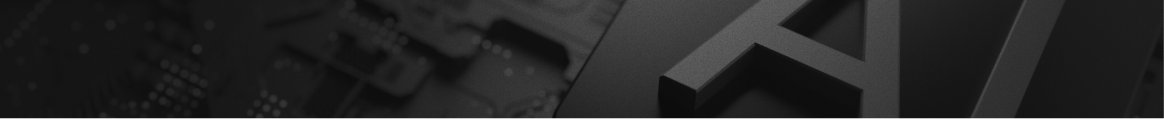
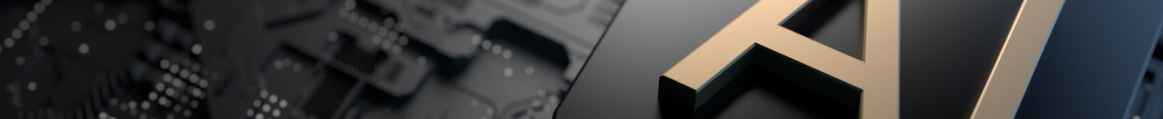
feat: img add

diff --git a/components/Icons/NeuralNetworks.vue b/components/Icons/NeuralNetworks.vue
@@ -1,0 +1,5 @@
+<template>
+    <svg xmlns="http://www.w3.org/2000/svg" width="49" height="50" fill="none" viewBox="0 0 49 50">
+  <path fill="#D5E39E" d="M35.453 42.359a1.674 1.674 0 0 0-1.25 0c-.193.081-.37.195-.513.342l-.012.008c-.083.081-.16.175-.222.277-.033.053-.066.11-.095.17h-2.593v-2.23a5.642 5.642 0 0 1-1.454.448v2.499a.727.727 0 0 0 .727.72h3.345a1.58 1.58 0 0 0 .284.386l.012.013a1.632 1.632 0 0 0 1.154.471c.214 0 .424-.04.613-.118l.012-.004a1.602 1.602 0 0 0 1.007-1.493 1.602 1.602 0 0 0-.477-1.143 1.817 1.817 0 0 0-.538-.346Zm-9.907-31.247a4.721 4.721 0 0 0-1.212 1.297.188.188 0 0 1-.07.07.243.243 0 0 1-.329-.07 4.721 4.721 0 0 0-1.212-1.297 3.902 3.902 0 0 0-1.52-.664h-.009a4.178 4.178 0 0 0-1.557-.016 4.723 4.723 0 0 0-1.529.557 4.92 4.92 0 0 0-1.232 1.014 4.253 4.253 0 0 0-.863 1.538c-.02.073-.045.154-.062.236a.233.233 0 0 1-.226.187 4.52 4.52 0 0 0-1.606.577c-.518.306-.999.72-1.414 1.217a6.122 6.122 0 0 0-1.002 1.733c-.23.61-.37 1.282-.4 1.994-.003.093-.003.183-.003.277 0 .085.004.174.004.268a.237.237 0 0 1-.099.208c-.337.24-.64.488-.912.744a6.66 6.66 0 0 0-.727.818 5.33 5.33 0 0 0-.76 1.424 4.86 4.86 0 0 0-.272 1.53c-.004.488.062.972.202 1.44.14.476.353.94.628 1.371a6.344 6.344 0 0 0 1.167 1.38.24.24 0 0 1 .074.22 5.489 5.489 0 0 0-.11.915c-.009.309.008.614.049.911.078.545.238 1.066.464 1.546.238.513.55.98.912 1.392.35.402.748.752 1.175 1.041.432.293.888.521 1.356.68.21.069.424.126.641.167.206.04.411.065.613.073a.237.237 0 0 1 .238.187c.107.484.304.94.575 1.35.284.432.641.815 1.052 1.132a4.82 4.82 0 0 0 1.767.858c.604.15 1.24.18 1.866.05a3.997 3.997 0 0 0 1.602-.725c.46-.346.888-.81 1.245-1.412a.213.213 0 0 1 .095-.085.239.239 0 0 1 .32.097c.296.546.657.98 1.06 1.31.436.354.917.594 1.422.733a4.25 4.25 0 0 0 1.972.04 5.149 5.149 0 0 0 1.952-.858 4.98 4.98 0 0 0 1.18-1.164 4.2 4.2 0 0 0 .66-1.379.234.234 0 0 1 .194-.191 4.521 4.521 0 0 0 1.746-.724 5.648 5.648 0 0 0 1.45-1.44 6.184 6.184 0 0 0 .868-1.832c.18-.63.267-1.314.238-2.034a.226.226 0 0 1 .103-.212c.353-.24.665-.492.945-.748.283-.269.534-.545.748-.834.328-.44.57-.895.74-1.363.172-.484.262-.977.279-1.469a4.977 4.977 0 0 0-.169-1.412 5.368 5.368 0 0 0-.567-1.347l-.008-.008a6.298 6.298 0 0 0-.571-.81 6.726 6.726 0 0 0-.715-.736.237.237 0 0 1-.078-.224 5.377 5.377 0 0 0 .082-1.668 5.39 5.39 0 0 0-.436-1.603 5.91 5.91 0 0 0-.912-1.444 6.217 6.217 0 0 0-1.195-1.078 5.514 5.514 0 0 0-1.373-.696l-.012-.004a4.668 4.668 0 0 0-.756-.187h-.008a4.11 4.11 0 0 0-.736-.053.238.238 0 0 1-.246-.18 3.986 3.986 0 0 0-.383-.968 4.455 4.455 0 0 0-.854-1.102c-.35-.33-.748-.61-1.175-.826-.44-.22-.92-.374-1.414-.444a4.18 4.18 0 0 0-1.422.041 4.315 4.315 0 0 0-1.528.684Zm6.718 4.58a.244.244 0 0 1 .214-.166 2.29 2.29 0 0 1 .526.024c.18.029.361.074.542.135.341.114.682.289.998.508.313.216.609.48.863.781l.005.009c.267.313.493.663.661 1.045.16.358.267.74.312 1.144a3.774 3.774 0 0 1-.189 1.643l-.004.017a.794.794 0 0 0 .316.915l.013.008a5.179 5.179 0 0 1 1.356 1.481c.18.305.32.623.407.948.09.322.131.647.119.969a3.152 3.152 0 0 1-.193.996 3.724 3.724 0 0 1-.506.924l-.004.004a4.871 4.871 0 0 1-.756.797c-.288.245-.62.477-1.002.7l-.013.008a.801.801 0 0 0-.382.846l.004.033a4.968 4.968 0 0 1-.086 1.758 4.563 4.563 0 0 1-.699 1.57 4.146 4.146 0 0 1-.821.88 3.136 3.136 0 0 1-.983.532h-.004a.24.24 0 0 1-.295-.154c-.465-1.502-1.266-1.986-2.622-2.677l-.029-.017a.798.798 0 0 0-.58-.04.734.734 0 0 0-.439.366l-.012.024a.776.776 0 0 0-.041.574.778.778 0 0 0 .382.443c1.134.574 1.972 1.01 1.96 2.417-.004.42-.136.826-.358 1.192a3.526 3.526 0 0 1-.961 1.013 3.61 3.61 0 0 1-1.307.594c-.44.102-.891.106-1.315-.008-.715-.195-1.179-.667-1.491-1.24-.296-.546-.46-1.18-.58-1.758-.008-.02-.008-.045-.008-.066 0-.292-.23-.484-.53-.57a1.549 1.549 0 0 0-.83 0c-.296.09-.526.282-.526.57 0 .02-.004.037-.008.058-.23.903-.563 1.582-.953 2.07-.456.574-.99.887-1.541 1.001a2.709 2.709 0 0 1-1.212-.04 3.36 3.36 0 0 1-1.155-.57 3.07 3.07 0 0 1-.822-.948 2.34 2.34 0 0 1-.3-1.119c0-1.48.904-1.977 2.1-2.584a.777.777 0 0 0 .382-.443.77.77 0 0 0-.045-.586.782.782 0 0 0-.448-.378.798.798 0 0 0-.58.04l-.012.005c-1.41.711-2.251 1.232-2.757 2.783a.243.243 0 0 1-.238.174 2.79 2.79 0 0 1-.834-.163 4.156 4.156 0 0 1-.978-.492 4.504 4.504 0 0 1-.85-.756 4.297 4.297 0 0 1-.662-1.01 3.908 3.908 0 0 1-.337-1.102v-.008a3.806 3.806 0 0 1 .177-1.762l.003-.012a.79.79 0 0 0 .005-.496l-.005-.009a.795.795 0 0 0-.308-.407l-.008-.008a5.042 5.042 0 0 1-1.27-1.355 3.982 3.982 0 0 1-.435-.964 3.423 3.423 0 0 1-.14-1c.004-.347.066-.7.19-1.046.118-.33.29-.66.53-.98a4.95 4.95 0 0 1 .743-.798 6.86 6.86 0 0 1 .974-.708.79.79 0 0 0 .3-.326l.004-.012a.755.755 0 0 0 .07-.435c-.004-.017-.004-.033-.004-.05v-.007a5.087 5.087 0 0 1-.046-.871 4.803 4.803 0 0 1 .292-1.485 4.54 4.54 0 0 1 .74-1.29c.25-.305.538-.561.838-.76.3-.2.616-.342.941-.424a.24.24 0 0 1 .296.155c.255.797.575 1.298 1.187 1.863l.025.02c.152.139.35.204.542.196a.75.75 0 0 0 .522-.236l.013-.016a.742.742 0 0 0 .197-.537.77.77 0 0 0-.247-.53c-.493-.451-.604-.732-.752-1.187a2.235 2.235 0 0 1 .025-1.494c.115-.313.296-.606.526-.862.226-.256.501-.484.805-.66l.013-.008a3.21 3.21 0 0 1 .998-.374 2.62 2.62 0 0 1 1.007.004c.468.098.928.342 1.335.765.358.37.674.883.925 1.559l.004.008c.086.264.366.419.694.48.148.028.304.036.456.028h.005a1.72 1.72 0 0 0 .443-.081c.247-.082.44-.212.485-.378v-.094c0-.472.284-.973.674-1.383.427-.448.998-.802 1.48-.9.303-.06.611-.065.912-.02.312.049.616.146.903.289l.025.008c.292.146.559.334.793.553.23.22.428.468.575.74.235.428.341.916.268 1.433-.066.452-.083.736-.465 1.188l-.004.004a.75.75 0 0 0 .078 1.054l.025.02c.16.13.357.183.55.167a.757.757 0 0 0 .506-.252l.02-.029c.395-.463.522-.805.703-1.391Zm9.023 19.913a1.628 1.628 0 0 1 0-1.237c.083-.191.198-.366.346-.509l.008-.012a1.635 1.635 0 0 1 .452-.313v-2.567h-3.189a6.864 6.864 0 0 0-.004-.505.257.257 0 0 1 .115-.24c.329-.224.629-.456.9-.696h2.9a.727.727 0 0 1 .728.72v3.313a1.597 1.597 0 0 1 .39.28l.013.012a1.604 1.604 0 0 1 .357 1.75l-.004.012a1.62 1.62 0 0 1-.884.875 1.673 1.673 0 0 1-1.248 0 1.622 1.622 0 0 1-.53-.35 1.793 1.793 0 0 1-.35-.533Zm4.619-8.24H41.57a5.33 5.33 0 0 0 .197-.48 5.07 5.07 0 0 0 .247-.96h3.89c.03-.052.058-.105.091-.158a1.598 1.598 0 0 1 .744-.614 1.64 1.64 0 0 1 1.237-.004l.012.004a1.603 1.603 0 0 1 .883 2.112 1.602 1.602 0 0 1-.883.874 1.638 1.638 0 0 1-1.237.004l-.012-.004a1.596 1.596 0 0 1-.74-.606l-.008-.013c-.029-.048-.057-.101-.086-.154Zm1.38-3.938h-5.452a6.304 6.304 0 0 0-.584-1.322l-.008-.012c-.02-.037-.04-.07-.061-.106h5.382v-4.7c-.04-.024-.082-.048-.123-.076a1.604 1.604 0 0 1-.58-1.949 1.62 1.62 0 0 1 .883-.875 1.673 1.673 0 0 1 1.25 0 1.623 1.623 0 0 1 .884.875 1.595 1.595 0 0 1 .004 1.225l-.004.011a1.648 1.648 0 0 1-.662.765 1.81 1.81 0 0 1-.197.102v5.338a.71.71 0 0 1-.214.509.73.73 0 0 1-.518.215Zm-5.699-3.474H39.73a5.98 5.98 0 0 0 .086-1.44h1.044v-2.124a1.303 1.303 0 0 1-.164-.094 1.604 1.604 0 0 1-.288-2.49l.012-.012a1.622 1.622 0 0 1 1.155-.472 1.634 1.634 0 0 1 1.142.464l.013.008c.148.146.267.317.349.513l.004.012a1.628 1.628 0 0 1 0 1.237 1.676 1.676 0 0 1-.341.512l-.012.012a1.697 1.697 0 0 1-.263.212c-.05.032-.099.061-.152.085v2.857a.71.71 0 0 1-.214.508.735.735 0 0 1-.514.212ZM12.791 7.637a1.673 1.673 0 0 0 1.25 0c.193-.081.37-.195.513-.342l.012-.008a1.69 1.69 0 0 0 .316-.448h2.594v2.218c.456-.24.949-.415 1.454-.517V6.12a.727.727 0 0 0-.727-.72h-3.345a1.58 1.58 0 0 0-.284-.387L14.563 5a1.62 1.62 0 0 0-.53-.35 1.674 1.674 0 0 0-.624-.122c-.214 0-.423.041-.612.118l-.013.005a1.604 1.604 0 0 0-.883 2.112c.082.199.205.378.353.524.16.146.337.269.538.35Zm8.325-4.573v5.558c.485.138.958.358 1.401.675l.05.037c0-.013.004-.025.004-.037V3.064c.053-.029.107-.057.16-.09.099-.06.19-.134.267-.211a1.66 1.66 0 0 0 .354-.525 1.595 1.595 0 0 0 .004-1.225l-.005-.012a1.622 1.622 0 0 0-1.508-.997c-.217 0-.427.045-.624.122a1.62 1.62 0 0 0-.884.875 1.595 1.595 0 0 0-.004 1.225l.005.012a1.598 1.598 0 0 0 .612.732l.008.004c.053.033.103.061.16.09Zm3.974-1.367v8.129c.197-.2.406-.374.62-.53.267-.19.547-.349.834-.471V2.413h4.746c.025.04.05.081.078.122a1.622 1.622 0 0 0 .72.574 1.673 1.673 0 0 0 1.248 0 1.62 1.62 0 0 0 .884-.875 1.63 1.63 0 0 0 .123-.619 1.604 1.604 0 0 0-.477-1.143A1.668 1.668 0 0 0 32.708 0c-.213 0-.418.04-.611.118l-.013.004a1.666 1.666 0 0 0-.53.35c-.09.09-.172.195-.242.305-.037.061-.074.13-.103.195h-5.391a.727.727 0 0 0-.727.725Zm3.509 5.643v1.115a4.993 4.993 0 0 1 1.455.297v-.688h2.144c.029.057.058.11.095.163a1.623 1.623 0 0 0 1.372.745c.218 0 .428-.045.625-.123a1.68 1.68 0 0 0 .517-.337l.013-.013a1.604 1.604 0 0 0 .008-2.274l-.008-.012a1.6 1.6 0 0 0-.518-.346l-.012-.004a1.673 1.673 0 0 0-1.25 0c-.193.081-.37.195-.517.338l-.013.012a1.69 1.69 0 0 0-.213.26 1.09 1.09 0 0 0-.086.15h-2.885a.727.727 0 0 0-.727.717ZM7.713 14.322a1.629 1.629 0 0 1 0 1.237 1.554 1.554 0 0 1-.346.508l-.008.012a1.471 1.471 0 0 1-.28.22c-.053.033-.11.065-.172.094v2.567H9.6v.126c0 .098.004.2.008.305a.264.264 0 0 1-.111.236 9.36 9.36 0 0 0-.957.773H6.19a.727.727 0 0 1-.728-.72v-3.312a1.592 1.592 0 0 1-.39-.28l-.013-.013a1.603 1.603 0 0 1-.357-1.75l.004-.011a1.621 1.621 0 0 1 .883-.875 1.674 1.674 0 0 1 1.25 0c.2.081.382.203.53.35.14.154.262.333.345.533ZM3.094 22.56h3.863a5.395 5.395 0 0 0-.423 1.436h-3.44c-.029.053-.057.106-.09.159a1.6 1.6 0 0 1-.744.614 1.639 1.639 0 0 1-1.237.004l-.012-.004a1.604 1.604 0 0 1-.883-2.112 1.603 1.603 0 0 1 .883-.874 1.639 1.639 0 0 1 1.237-.004l.012.004a1.594 1.594 0 0 1 .74.606l.008.012.086.159Zm-1.38 3.938h5.025c.156.493.382.969.67 1.42v.004l.008.017h-4.98v4.699c.04.024.082.049.123.077a1.603 1.603 0 0 1 .703 1.33c0 .216-.046.428-.124.62a1.62 1.62 0 0 1-.883.875 1.674 1.674 0 0 1-.625.121c-.218 0-.427-.045-.624-.122a1.62 1.62 0 0 1-.53-.35A1.629 1.629 0 0 1 0 34.039c0-.212.041-.415.12-.607l.003-.012a1.647 1.647 0 0 1 .86-.867v-5.338a.71.71 0 0 1 .213-.508.76.76 0 0 1 .517-.208Zm5.699 3.475h1.356c-.046.268-.07.533-.078.793a5.34 5.34 0 0 0 .012.647H8.14v2.124c.057.029.11.057.164.094a1.603 1.603 0 0 1 .752 1.363c0 .22-.045.423-.123.618a1.675 1.675 0 0 1-.341.513l-.012.012a1.62 1.62 0 0 1-.53.35 1.674 1.674 0 0 1-1.25 0 1.634 1.634 0 0 1-.517-.342l-.013-.008a1.583 1.583 0 0 1-.349-.513l-.004-.012a1.629 1.629 0 0 1 0-1.237c.082-.191.197-.366.341-.512l.012-.013a1.7 1.7 0 0 1 .263-.211c.05-.033.099-.061.152-.086v-2.856c0-.2.083-.378.214-.508a.698.698 0 0 1 .514-.216Zm19.719 16.958V41.24a4.253 4.253 0 0 1-1.442-.777l-.009-.008v6.481c-.053.029-.107.057-.16.09a1.522 1.522 0 0 0-.267.211 1.64 1.64 0 0 0-.353.525 1.594 1.594 0 0 0-.004 1.225l.004.012a1.622 1.622 0 0 0 .883.875 1.673 1.673 0 0 0 1.25 0 1.624 1.624 0 0 0 .883-.875 1.597 1.597 0 0 0 .004-1.225l-.004-.012a1.601 1.601 0 0 0-.612-.732l-.013-.008c-.053-.033-.107-.061-.16-.09ZM23.154 48.3v-8.202a4.88 4.88 0 0 1-.542.472 4.5 4.5 0 0 1-.912.533v6.485h-4.746c-.025-.04-.05-.081-.078-.122a1.652 1.652 0 0 0-.72-.574 1.673 1.673 0 0 0-1.248 0 1.602 1.602 0 0 0-1.007 1.493 1.602 1.602 0 0 0 1.007 1.493 1.639 1.639 0 0 0 1.237.004l.012-.003a1.654 1.654 0 0 0 .772-.655c.037-.061.074-.13.103-.195h5.39a.733.733 0 0 0 .731-.728Zm-3.509-5.643v-1.184a5.036 5.036 0 0 1-1.454-.293v.76h-2.145a1.298 1.298 0 0 0-.095-.162 1.62 1.62 0 0 0-.752-.623 1.668 1.668 0 0 0-.62-.121c-.218 0-.428.044-.625.122-.193.081-.37.195-.518.337l-.012.009a1.604 1.604 0 0 0-.008 2.274l.008.012c.148.147.32.265.518.346l.012.004c.193.077.403.122.625.122.218 0 .427-.045.624-.122a1.67 1.67 0 0 0 .518-.338l.012-.012c.079-.077.148-.163.214-.26.033-.05.062-.098.086-.15h2.885a.727.727 0 0 0 .727-.721Z"/>
+</svg>
+</template>

diff --git a/components/Sections/EducationProgram.vue b/components/Sections/EducationProgram.vue
@@ -3,10 +3,12 @@
         <div class="container">
             <h2 class="leading-tight">Программа обучения — <span class="block">6 месяцев</span></h2>
             <p class="mt-7 text-2xl">15 часов теории и 110 часов практики</p>
-            <ul class="mt-16 space-y-8">
-                <li v-for="a of data" :key="a.id" @click="clickHandleModule(a.id)">
-                    <SectionsEducationItem v-bind="a" :open="selectedModuleId === a.id" />
-                </li>
+            <ul class="mt-16 ">
+                <TransitionGroup name="tabs">
+                    <li v-for="a of data" :key="a.id" @click="clickHandleModule(a.id)">
+                        <SectionsEducationItem v-bind="a" :open="selectedModuleId === a.id" />
+                    </li>
+                </TransitionGroup>
             </ul>
         </div>
     </section>
@@ -20,33 +22,126 @@ import bgBtnModule4 from '@/assets/img/module4.png';
 import bgBtnModule5 from '@/assets/img/module5.png';
 import bgBtnModule6 from '@/assets/img/module6.png';
 import bgBtnModule7 from '@/assets/img/module7.png';
+
+import bgDetailModule1 from '@/assets/img/module1-full.png';
+import bgDetailModule2 from '@/assets/img/module2-full.png';
+import bgDetailModule3 from '@/assets/img/module3-full.png';
+import bgDetailModule4 from '@/assets/img/module4-full.png';
+import bgDetailModule5 from '@/assets/img/module5-full.png';
+import bgDetailModule6 from '@/assets/img/module6-full.png';
+import bgDetailModule7 from '@/assets/img/module7-full.png';
+
 const data = [
     {
         id: 1,
         bgBtn: bgBtnModule1,
+        bgDetails: bgDetailModule1,
         title: 'Модуль 1: Введение в ML/AI',
+        details: [
+            'Введение и история ML/AI',
+            'Типы машинного обучения',
+            'Supervised Learning vs Unsupervised Learning',
+            'Reinforcement Learning',
+            'Методология CRISP-DM',
+            'Процесс выбора модели',
+            'Введение в среду Python для машинного обучения (знакомство с основными библиотеками NumPy, Pandas и т.д.)'
+        ]
     },
-    {id: 2, bgBtn: bgBtnModule2, title: 'Модуль 2: Алгоритмы машинного обучения'},
-    {id: 3, bgBtn: bgBtnModule3, title: 'Модуль 3: ENeural Networks and Deep Learning'},
+    {
+        id: 2, 
+        bgBtn: bgBtnModule2,
+        bgDetails: bgDetailModule2,
+        title: 'Модуль 2: Алгоритмы машинного обучения',
+        details: [
+            'Модели Регрессии (Regression)',
+            'Модели Классификации (Classification)',
+            'Модели кластеризации',
+            'Деревья решений и ансамблевое обучение',
+            'Развертывание моделей машинного обучения'
+        ]
+    },
+    {
+        id: 3, 
+        bgBtn: bgBtnModule3,
+        bgDetails: bgDetailModule3,
+        title: 'Модуль 3: Neural Networks and Deep Learning',
+        details: [
+            'Введение в нейронные сети',
+            'Введение в фреймворки (PyTorch/TensorFlow)',
+            'Convolutional Neural Networks (CNN)',
+            'Recurrent Neural Networks (RNN)',
+            'Transfer learning',
+            'Regularization and dropout',
+            'Hyperparameter tuning',
+            'Методы увеличения данных',
+            'Обучение крупных моделей'
+        ],
+        project: {
+            title: 'Среднесрочный проект',
+            desc: 'студенты применят все, что узнали до этого, на практике'
+        }
+    },
     {
         id: 4,
         bgBtn: bgBtnModule4,
+        bgDetails: bgDetailModule4,
         title: 'Модуль 4: Обработка естественного языка (NLP)',
+        details: [
+            'Токенизация и предварительная обработка текста',
+            'Семантические эмбеддинги слов (Word2Vec и GloVe)',
+            'Языковое моделирование. Обучение собственных эмбеддингов',
+            'Recurrent Neural Networks (RNN)',
+            'Generative Recurrent Networks',
+            'Трансформеры',
+            'Распознавание именованных сущностей (NER)',
+            'Большие языковые модели (LLM)'
+        ],
     },
     {
         id: 5,
         bgBtn: bgBtnModule5,
+        bgDetails: bgDetailModule5,
         title: 'Модуль 5: Компьютерное зрение (Computer Vision)',
+        details: [
+          'Введение в Computer Vision (OpenCV)',
+          'Обработка изображений',
+          'Обнаружение и распознавание объектов (фото и видео)',
+          'Распознавание лица',
+          'Сегментация изображения',
+          'Generative Adversarial Networks (GANs) - передача художественного стиля'
+        ],
     },
     {
         id: 6,
         bgBtn: bgBtnModule6,
+        bgDetails: bgDetailModule6,
         title: 'Модуль 6: Технологии корпоративной разработки',
+        details: [
+          'Источники данных и виды баз данных (PostgreSQL, Clickhouse, Elasticsearch, Milvus)',
+          'Облачные вычисления (AWS, Google Cloud, Nvidia Cloud Computing)',
+          'Развертывание модели (Serverless, AWS Labda, TensorFlow Lite)',
+          'Docker',
+          'Развертывание модели в виде REST API'
+        ],
     },
     {
         id: 7,
         bgBtn: bgBtnModule7,
+        bgDetails: bgDetailModule7,
         title: 'Модуль 7: Kubernetes и обслуживание TensorFlow',
+        details: [
+          'Введение',
+          'Обслуживание TensorFlow',
+          'Создание службы предварительной обработки',
+          'Запуск всего локально с помощью Docker-compose',
+          'Введение в Kubernetes',
+          'Развертывание простого сервиса в Kubernetes',
+          'Развертывание моделей TensorFlow в Kubernetes',
+          'Развертывание в EKS'
+        ],
+        project: {
+            title: 'Финальный проект',
+        }
     },
 ];
 const selectedModuleId = ref<number | boolean>(false);
@@ -59,4 +154,13 @@ const clickHandleModule = (id: number) => {
 }
 </script>
 
-<style scoped></style>
+<style scoped lang="scss">
+.tabs-move {
+  transition: transform 0.3s ease, opacity 0.5s ease 0.3s;
+ 
+}
+
+.tabs-leave-active {
+  position: absolute;
+}
+</style>

diff --git a/components/Sections/EducationItem.vue b/components/Sections/EducationItem.vue
@@ -3,32 +3,35 @@ import bgImg from '@/assets/img/module1.png'
 import { PropType } from 'vue';
 defineProps({
     bgBtn: String as PropType<any>,
+    bgDetails: String as PropType<any>,
     title: String,
     id: Number,
-    open: Boolean
+    open: Boolean,
+    details: Array as PropType<string[]>,
+    project: Object as PropType<{desc: string, title: string}>
 })
 </script>
 
 <template>
-   <button class="p-11 w-full text-left group bg-center  flex justify-between bg-[length:100%_auto] bg-no-repeat" :style="{backgroundImage: `url(${bgBtn})`}"><span class="text-2xl leading-none font-semibold">{{ title }}</span>
-    <div class="inline-flex items-center flex-shrink-0 justify-center overflow-hidden">
+   <button :class="['p-11 w-full text-left group  flex justify-between relative isolate', open ? '' : 'mb-8']" ><span class="text-2xl leading-none font-semibold relative z-30">{{ title }}</span>
+    <div class="inline-flex items-center flex-shrink-0 justify-center overflow-hidden relative z-30">
         <span class="uppercase translate-x-full opacity-0 transition-all group-hover:opacity-100 group-hover:translate-x-0 duration-500 text-xs mr-5 text-[#E5F3AA] underline decoration-dashed decoration-[#E5F3AA]/50	">{{open ? 'Скрыть подробности':'Посмотреть подробнее'}}</span>
         <div :class="['w-7 h-7 bg-[#E5F3AA]/80 ml-auto rounded-full inline-flex justify-center items-center flex-shrink-0 transition-transform', open && 'rotate-90']">
[1 lines of base64/hex data omitted]
         </div>
     </div>
+    <div :class="['bg-[length:100%_auto] bg-no-repeat absolute inset-0 bg-center z-10 transition-all group-hover:saturate-100', open ? 'saturate-100' : ' saturate-0']" :style="{backgroundImage: `url(${bgBtn})`}"></div>
+    <div :class="['absolute inset-0 z-[11] bg-[linear-gradient(90deg,rgba(21,21,21,.83)0%,rgba(21,21,21,.51)49%,rgba(21,21,21,.83)101%)] transition-opacity group-hover:opacity-50', open ? 'opacity-50' : 'opacity-100']"></div>
    </button>
-   <div v-show="open" class="px-12 pt-14">
-        <p class="text-2xl font-semibold uppercase">Содержание:</p>
-        <ul class="text-2xl mt-6">
-            <li>— Введение и история ML/AI</li>
-            <li>— Типы машинного обучения</li>
-            <li>— Supervised Learning vs Unsupervised Learning</li>
-            <li>— Reinforcement Learning</li>
-            <li>— Методология CRISP-DM</li>
-            <li>— Процесс выбора модели</li>
-            <li>— Введение в среду Python для машинного обучения (знакомство с основными библиотеками NumPy, Pandas итд)</li>
-        </ul>
+   <div v-show="open" class="px-12 py-14 bg-center bg-cover bg-no-repeat relative" :style="{backgroundImage: `url(${bgDetails})`}" >
+        <div class="absolute inset-0 backdrop-blur-md bg-black/70"></div>
+        <div class="relative z-30">
+            <p class="text-2xl font-semibold uppercase">Содержание:</p>
+            <ul class="text-2xl leading-normal mt-6">
+                <li v-for="text of details"><span class="mr-1 font-extrabold">—</span> {{ text }}</li>
+            </ul>
+            <p class="mt-5 text-2xl italic" v-if="project"><span class="font-bold">{{ project.title }}</span> <span v-if="project.desc">- {{ project.desc }}</span></p>
+        </div>
    </div>
 </template>
 

diff --git a/components/Sections/AbilityAIIntegrator.vue b/components/Sections/AbilityAIIntegrator.vue
@@ -5,11 +5,11 @@
                 На что способен  <span class="block leading-none">ai - интегратор? </span>
             </h2>
             <ul class="flex gap-20 mt-16 flex-wrap">
-                <li v-for="([text]) in ability" :key="text" class="flex items-center flex-shrink-0">
+                <li v-for="a in ability" :key="text" class="flex items-center flex-shrink-0">
                     <div class="w-20 h-20 mr-5 flex-shrink-0 rounded-[5px] border-2 flex items-center justify-center bg-[rgba(21,21,21,0.51)] border-[#31302F]">
-                        <IconsBox />
+                        <component :is="a.icon" />
                     </div>
-                    <p class="text-2xl max-w-[380px] leading-tight">{{ text }}</p>
+                    <p class="text-2xl max-w-[400px] leading-tight">{{ a.title }}</p>
                 </li>
             </ul>
         </div>
@@ -17,10 +17,38 @@
 </template>
 
 <script setup lang="ts">
+import IconsNeuralNetworks from '@/components/Icons/NeuralNetworks.vue'
+import IconsBox from '@/components/Icons/Box.vue'
+import IconsFile from '@/components/Icons/File.vue'
+import IconsProgram from '@/components/Icons/Program.vue'
+import IconsCloudConnect from '@/components/Icons/CloudConnect.vue'
+
 const ability = [
-    ['Пишет и запускает смарт-контракты (программы) в сеть блокчейна'],
-    ['Работает над инновационными Web3.0 платформами и проектами'],
-    ['Пишет и запускает смарт-контракты (программы) в сеть блокчейна']
+    {
+        id: 0,
+        title: 'Разрабатывать и обучать искусственные нейронные сети',
+        icon: IconsNeuralNetworks
+    },
+    {
+        id: 1,
+        title: 'Обрабатывать и анализировать большие объемы данных',
+        icon: IconsBox
+    },
+    {
+        id: 2,
+        title: 'Создавать и оптимизировать AI-алгоритмы',
+        icon: IconsFile
+    },
+    {
+        id: 3,
+        title: 'Создавать приложения и продукты на базе AI',
+        icon: IconsProgram
+    },
+    {
+        id: 4,
+        title: 'Интегрировать и настраивать AI модели в бизнес-процессы и системы',
+        icon: IconsCloudConnect
+    },
 ]
 </script>
 

diff --git a/components/Icons/Program.vue b/components/Icons/Program.vue
@@ -1,0 +1,8 @@
+<template>
+    <svg xmlns="http://www.w3.org/2000/svg" width="48" height="44" fill="none" viewBox="0 0 48 44">
+  <g fill="#D5E39E">
+    <path d="M32.085 38.15a2.113 2.113 0 0 1-.833-.949H3.208V9.56h38.065v18.05a2.122 2.122 0 0 1 1.781 1.337 2.117 2.117 0 0 1 1.427-.217V2.673A2.676 2.676 0 0 0 41.808 0H2.673A2.676 2.676 0 0 0 0 2.673v35.063c0 1.474 1.2 2.673 2.673 2.673h29.169a2.115 2.115 0 0 1 .244-2.258Zm6.253-33.66c0-.545.442-.987.987-.987h.987c.545 0 .987.442.987.987v1.118a.987.987 0 0 1-.987.987h-.987a.987.987 0 0 1-.987-.987V4.49Zm-4.59 0c0-.545.443-.987.988-.987h.987c.545 0 .987.442.987.987v1.118a.987.987 0 0 1-.987.987h-.987a.987.987 0 0 1-.987-.987V4.49Zm-4.589 0c0-.545.442-.987.987-.987h.987c.545 0 .987.442.987.987v1.118a.987.987 0 0 1-.987.987h-.987a.987.987 0 0 1-.987-.987V4.49Z"/>
+    <path d="m47.621 36.269-.296-1.682a.417.417 0 0 0-.483-.338l-1.496.263a5.607 5.607 0 0 0-.68-1.177l.976-1.165a.416.416 0 0 0-.051-.586l-1.308-1.098a.417.417 0 0 0-.587.051l-.977 1.164a5.59 5.59 0 0 0-1.278-.466v-1.519a.417.417 0 0 0-.416-.416h-1.709a.417.417 0 0 0-.416.416v1.52c-.45.103-.877.26-1.278.465l-.977-1.164a.417.417 0 0 0-.587-.051l-1.308 1.098a.418.418 0 0 0-.051.587l.977 1.164a5.627 5.627 0 0 0-.681 1.177l-1.496-.263a.417.417 0 0 0-.483.338l-.296 1.682a.417.417 0 0 0 .337.482l1.497.264c.025.464.105.912.235 1.34l-1.315.759a.416.416 0 0 0-.153.569l.854 1.479a.415.415 0 0 0 .57.152l1.316-.76c.31.332.659.626 1.041.874l-.52 1.429a.417.417 0 0 0 .249.534l1.605.584a.416.416 0 0 0 .534-.25l.52-1.428a5.651 5.651 0 0 0 1.36 0l.519 1.429a.416.416 0 0 0 .534.249l1.605-.584a.416.416 0 0 0 .248-.534l-.52-1.428a5.643 5.643 0 0 0 1.042-.875l1.316.76a.417.417 0 0 0 .57-.152l.853-1.48a.417.417 0 0 0-.152-.568l-1.316-.76c.13-.426.21-.875.235-1.339l1.497-.264a.416.416 0 0 0 .269-.171.409.409 0 0 0 .071-.311Zm-7.45 2.672a2.291 2.291 0 1 1 0-4.582 2.291 2.291 0 0 1 0 4.582Z"/>
+  </g>
+</svg>
+</template>

diff --git a/components/Icons/CloudConnect.vue b/components/Icons/CloudConnect.vue
@@ -1,0 +1,5 @@
+<template>
+    <svg xmlns="http://www.w3.org/2000/svg" width="56" height="45" fill="none" viewBox="0 0 56 45">
+  <path fill="#D5E39E" d="M55.256 38.372H32.943a4.966 4.966 0 0 0-1.423-2.805 5.056 5.056 0 0 0-2.834-1.407v-4.317h12.541c4.964 0 9.002-4.303 9.002-9.593s-4.038-9.589-9.002-9.589a8.39 8.39 0 0 0-3.035.567C36.63 4.668 31.07 0 24.66 0c-5.216 0-9.927 3.05-12.36 7.977-3.95 1.746-6.586 5.927-6.586 10.5 0 6.268 4.782 11.365 10.659 11.365h10.88v4.314a5.057 5.057 0 0 0-2.834 1.41A4.966 4.966 0 0 0 23 38.371H.69a.722.722 0 0 0-.49.217.707.707 0 0 0 0 .986c.128.133.304.21.49.218h22.312a4.966 4.966 0 0 0 1.69 3.039 5.063 5.063 0 0 0 3.287 1.208 5.063 5.063 0 0 0 3.285-1.208 4.966 4.966 0 0 0 1.691-3.04H55.27a.722.722 0 0 0 .49-.217.707.707 0 0 0 0-.986.722.722 0 0 0-.49-.217h-.013ZM7.152 18.474c0-4.1 2.395-7.835 5.958-9.293a.716.716 0 0 0 .376-.356c2.154-4.567 6.436-7.404 11.174-7.404 5.998 0 11.173 4.602 12.304 10.94a.707.707 0 0 0 .388.514.722.722 0 0 0 .649-.006 7.03 7.03 0 0 1 3.227-.79c4.172 0 7.567 3.666 7.567 8.171 0 4.506-3.39 8.172-7.567 8.172H16.38c-5.089 0-9.227-4.463-9.227-9.948ZM31.491 39.79a3.57 3.57 0 0 1-1.47 2.217 3.639 3.639 0 0 1-4.919-.738 3.546 3.546 0 0 1 .498-4.899 3.633 3.633 0 0 1 4.97.248 3.553 3.553 0 0 1 .92 3.172Z"/>
+</svg>
+</template>

diff --git a/components/Icons/File.vue b/components/Icons/File.vue
@@ -1,0 +1,4 @@
+<template><svg xmlns="http://www.w3.org/2000/svg" width="38" height="50" fill="none" viewBox="0 0 38 50">
+    <path fill="#D5E39E" d="M6.333 45.313c-.87 0-1.583-.704-1.583-1.563V6.25c0-.86.713-1.563 1.583-1.563h15.834V12.5c0 1.729 1.415 3.125 3.166 3.125h7.917V43.75c0 .86-.712 1.563-1.583 1.563H6.333ZM6.333 0C2.84 0 0 2.803 0 6.25v37.5C0 47.197 2.84 50 6.333 50h25.334C35.16 50 38 47.197 38 43.75V15.088a6.21 6.21 0 0 0-1.85-4.424l-8.966-8.838A6.356 6.356 0 0 0 22.71 0H6.333Zm9.6 28.223c.93-.918.93-2.403 0-3.31-.93-.91-2.435-.919-3.355 0l-4.76 4.677a2.313 2.313 0 0 0 0 3.31l4.75 4.688c.93.918 2.434.918 3.354 0 .92-.918.93-2.403 0-3.31l-3.067-3.028 3.067-3.027h.01Zm9.5-3.32a2.388 2.388 0 0 0-3.355 0c-.92.917-.93 2.402 0 3.31l3.067 3.027-3.067 3.028a2.312 2.312 0 0 0 0 3.31c.93.908 2.434.918 3.354 0l4.75-4.687c.93-.918.93-2.403 0-3.31l-4.75-4.688v.01Z"/>
+  </svg>
+  </template>

diff --git a/components/Sections/Form.vue b/components/Sections/Form.vue
@@ -1,5 +1,6 @@
 <template>
-    <section class="mt-32 pt-32 pb-9 bg-cover bg-top" :style="{backgroundImage: `url(${sectionBgImg})`}">
+    <section class="mt-32 pt-32 pb-9 bg-cover bg-top relative" :style="{backgroundImage: `url(${sectionBgImg})`}">
+        <div class="absolute inset-0" :style="{backgroundImage: `url(${noiseImg})`}"></div>
         <div class="container flex justify-center">
             <div class="text-[#AAA9A9] bg-white py-14 px-10">
                 <h2 class="text-center text-black">Записаться на курс</h2>
@@ -53,7 +54,8 @@
 </template>
 
 <script setup lang="ts">
-import sectionBgImg from '~/assets/img/bg-form.png';
+import sectionBgImg from '~/assets/img/blurry.svg';
+import noiseImg from '~/assets/img/noise.svg';
 import { vMaska } from 'maska';
 import { getDatabase, ref as refFirebase, set, push } from 'firebase/database';
 
